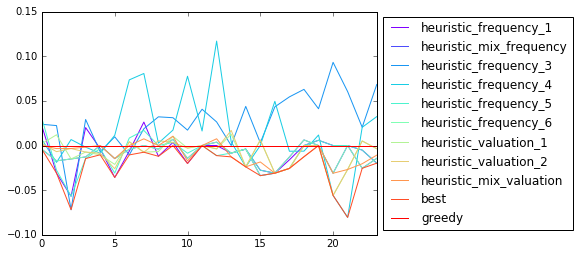
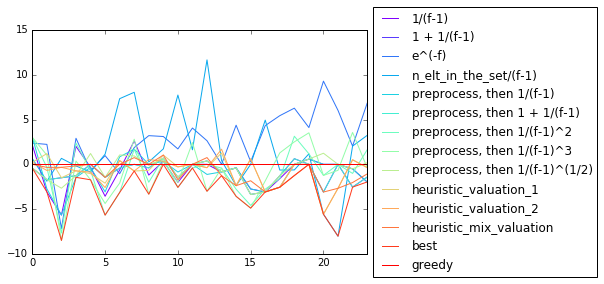
better plots with names and shit

Changed region(s): [[0.0, 0.0, 0.9948, 1.0]]

diff --git a/comparealgorithms.py b/comparealgorithms.py
@@ -87,9 +87,6 @@ def setcover_value2(path, verbose):
     
 #    element1, sets1 = create_data_set(path)
 #    total_weights.append(brute_force_not_smart(element1, sets1, verbose))
-
-    element1, sets1 = create_data_set(path)
-    total_weights.append(setcover.heuristic_frequency1(element1, sets1, verbose))
     
     element1, sets1 = create_data_set(path)
     total_weights.append(setcover.heuristic_frequency5(element1, sets1, verbose))
@@ -107,16 +104,18 @@ def setcover_value2(path, verbose):
     total_weights.append(setcover.heuristic_frequency9(element1, sets1, verbose))
     
     element1, sets1 = create_data_set(path)
+    total_weights.append(setcover.heuristic_valuation_mixed(element1, sets1, verbose))
+    
+    element1, sets1 = create_data_set(path)
     greedy_value = setcover.usual_greedy(element1, sets1, verbose)
     total_weights.append(greedy_value)
 #    
 #    total_weights.append(greedy_value)
 #    total_weights[-2] = min(total_weights)
     
-    names = ['heuristic_frequency_1', \
-    'heuristic_frequency_5','heuristic_frequency_6', \
-    'heuristic_frequency_7','heuristic_frequency_8', \
-    'heuristic_frequency_9', 'best', 'greedy']
+    names = ['1/(f-1)','1 + 1/(f-1)', \
+    '1/(f-1)^2','1/(f-1)^3', \
+    '1/(f-1)^(1/2)', 'valuation mixed', 'greedy']
     
     return total_weights, names
 
@@ -125,7 +124,7 @@ def run_benchmark():
     datasets = range(41,50) + range(51,60) + range(61,66) + [410]
     for dataset in datasets:
         path = "data_sets/scp"+str(dataset)+".txt"
-        total_weights, legend = setcover_value1(path, False)
+        total_weights, legend = setcover_value2(path, False)
         setcover_value_matrix = np.vstack((setcover_value_matrix, total_weights)) if len(setcover_value_matrix) else total_weights 
         with open("Output.txt", "w") as text_file:
             text_file.write(str(setcover_value_matrix))
@@ -190,13 +189,23 @@ def compare_greedy_matrix(setcover_value_matrix):
         for icol in range(ncols):
             scores[irow][icol] = float(setcover_value_matrix[irow][icol])/greedy_value - 1
             
-    return scores
+    return scores * 100
     
 
     
 
     
 #%%
+    
+names1 = ['1/(f-1)', '1 + 1/(f-1)', 'e^(-f)', \
+    'n_elt_in_the_set/(f-1)','preprocess, then 1/(f-1)','preprocess, then 1 + 1/(f-1)', \
+    'preprocess, then 1/(f-1)^2','preprocess, then 1/(f-1)^3','preprocess, then 1/(f-1)^(1/2)', \
+    'heuristic_valuation_1', 'heuristic_valuation_2', 'heuristic_mix_valuation', \
+    'best', 'greedy']
+    
+names2 = ['1/(f-1)','1 + 1/(f-1)', \
+    '1/(f-1)^2','1/(f-1)^3', \
+    '1/(f-1)^(1/2)', 'valuation mixed', 'greedy']
     
 c = compare_greedy_matrix(b)
 print_matrix(c, legend)
